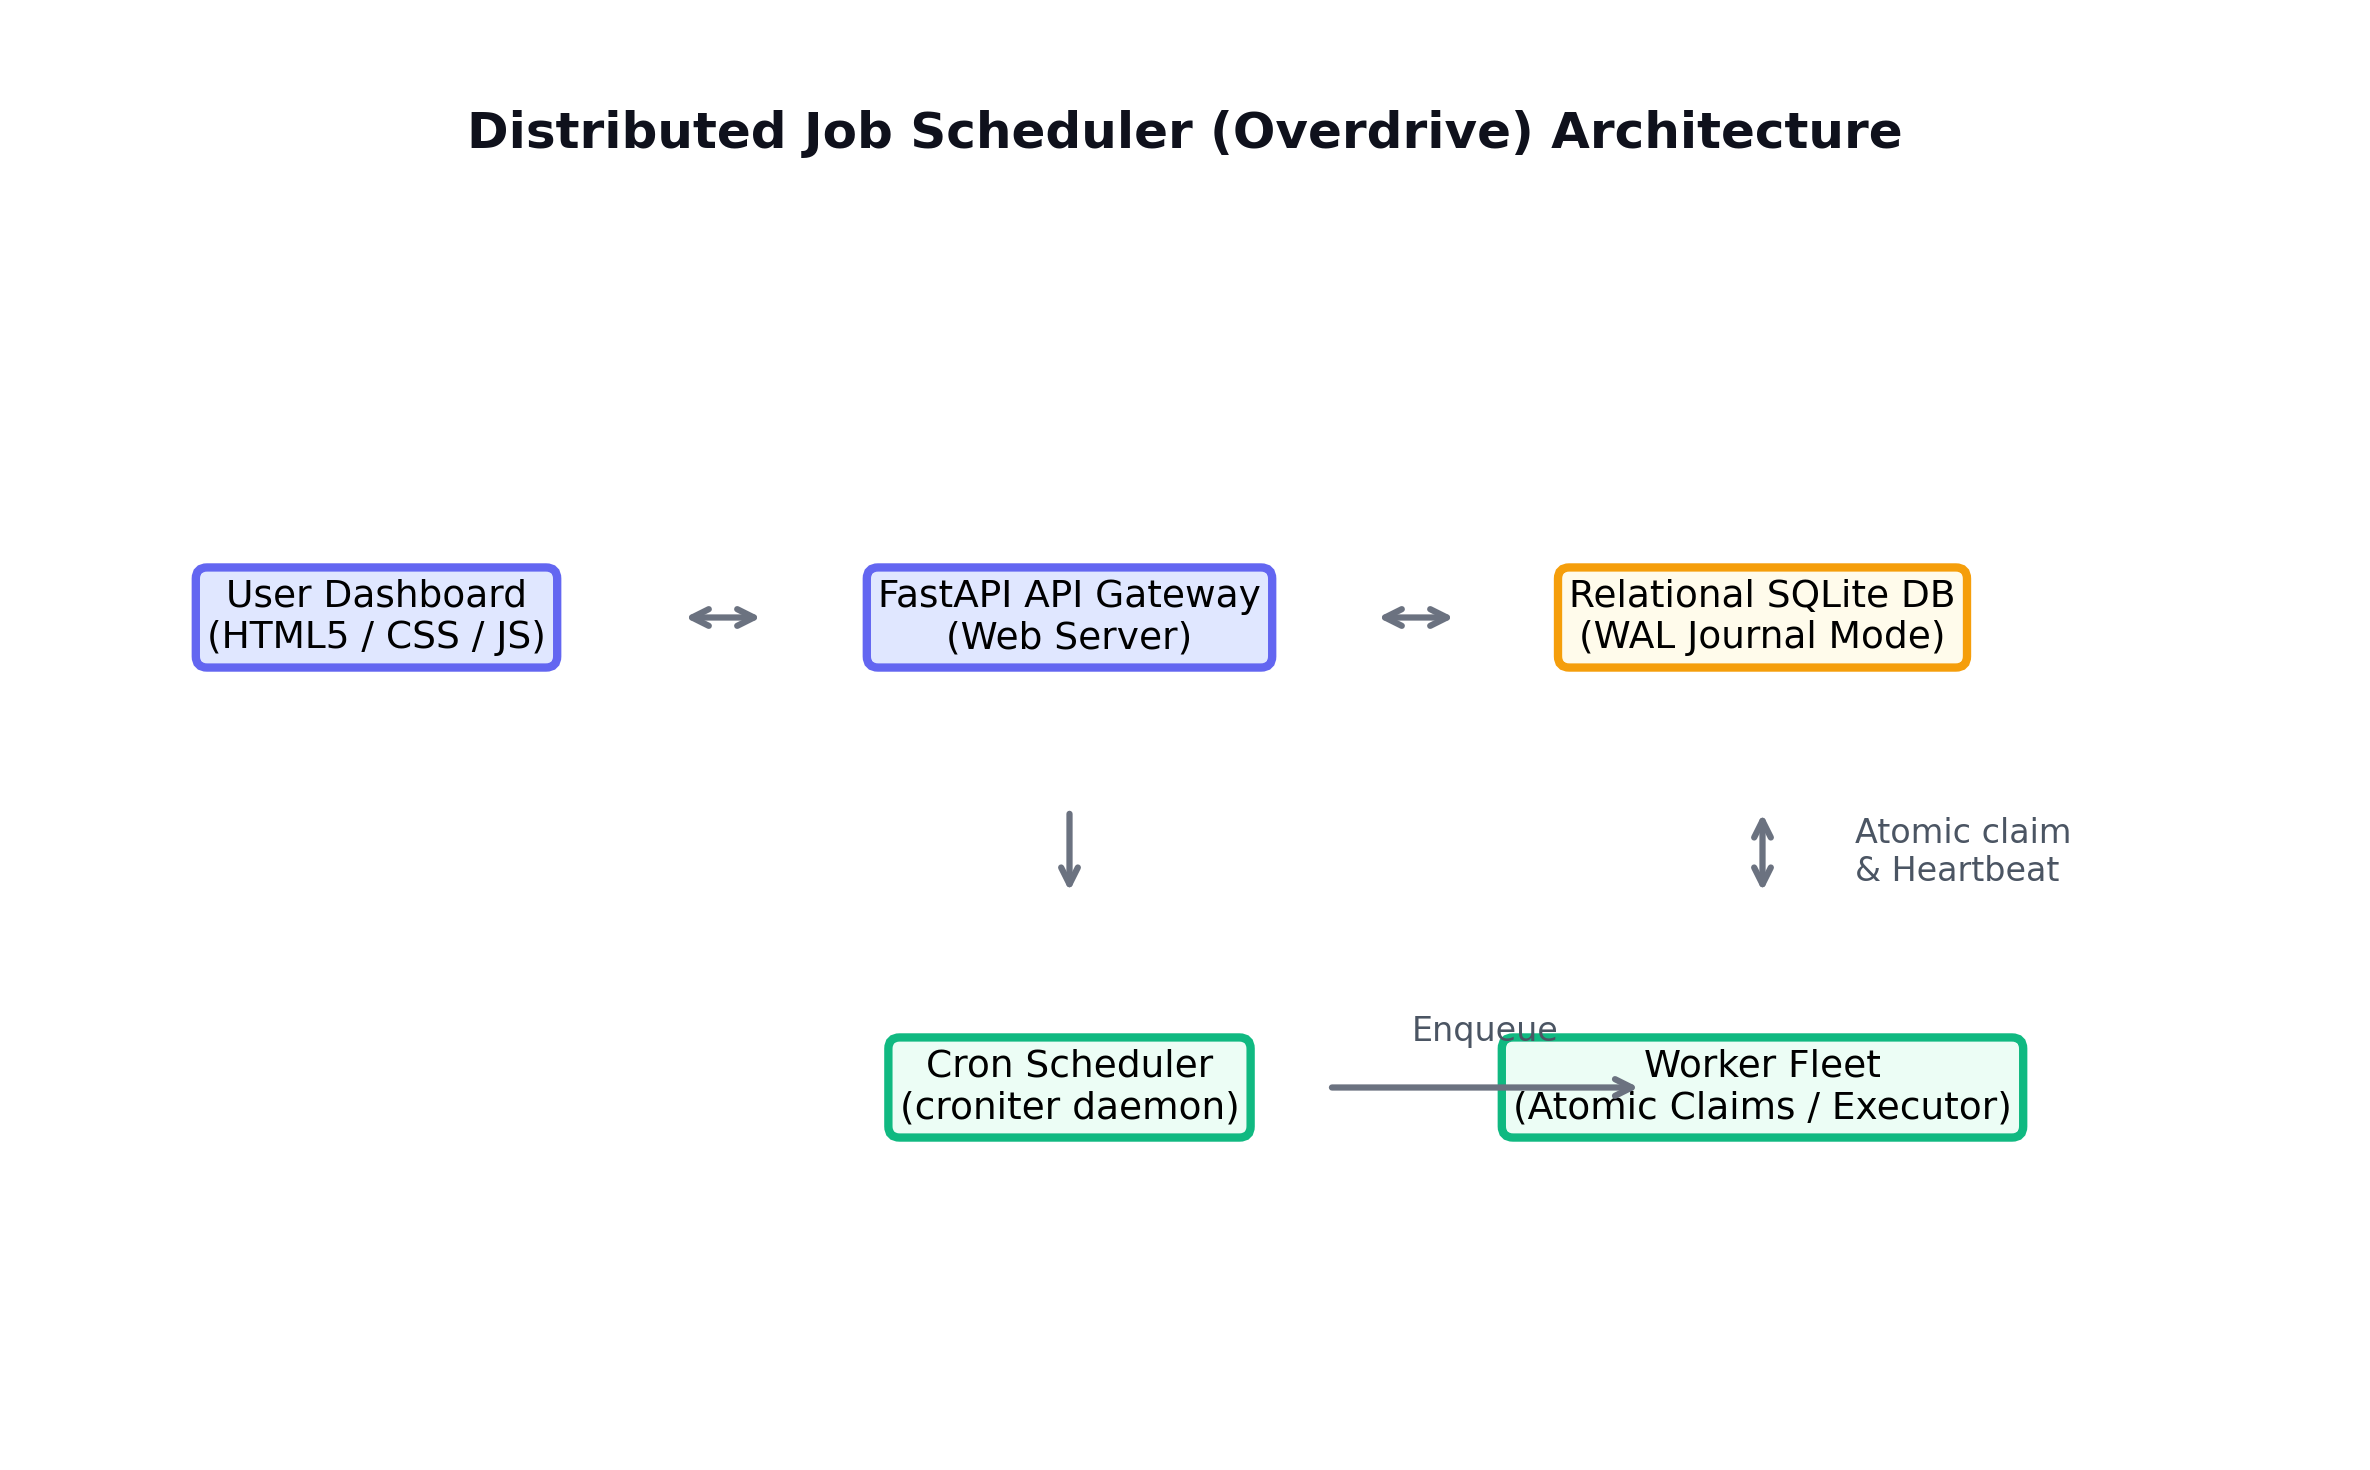
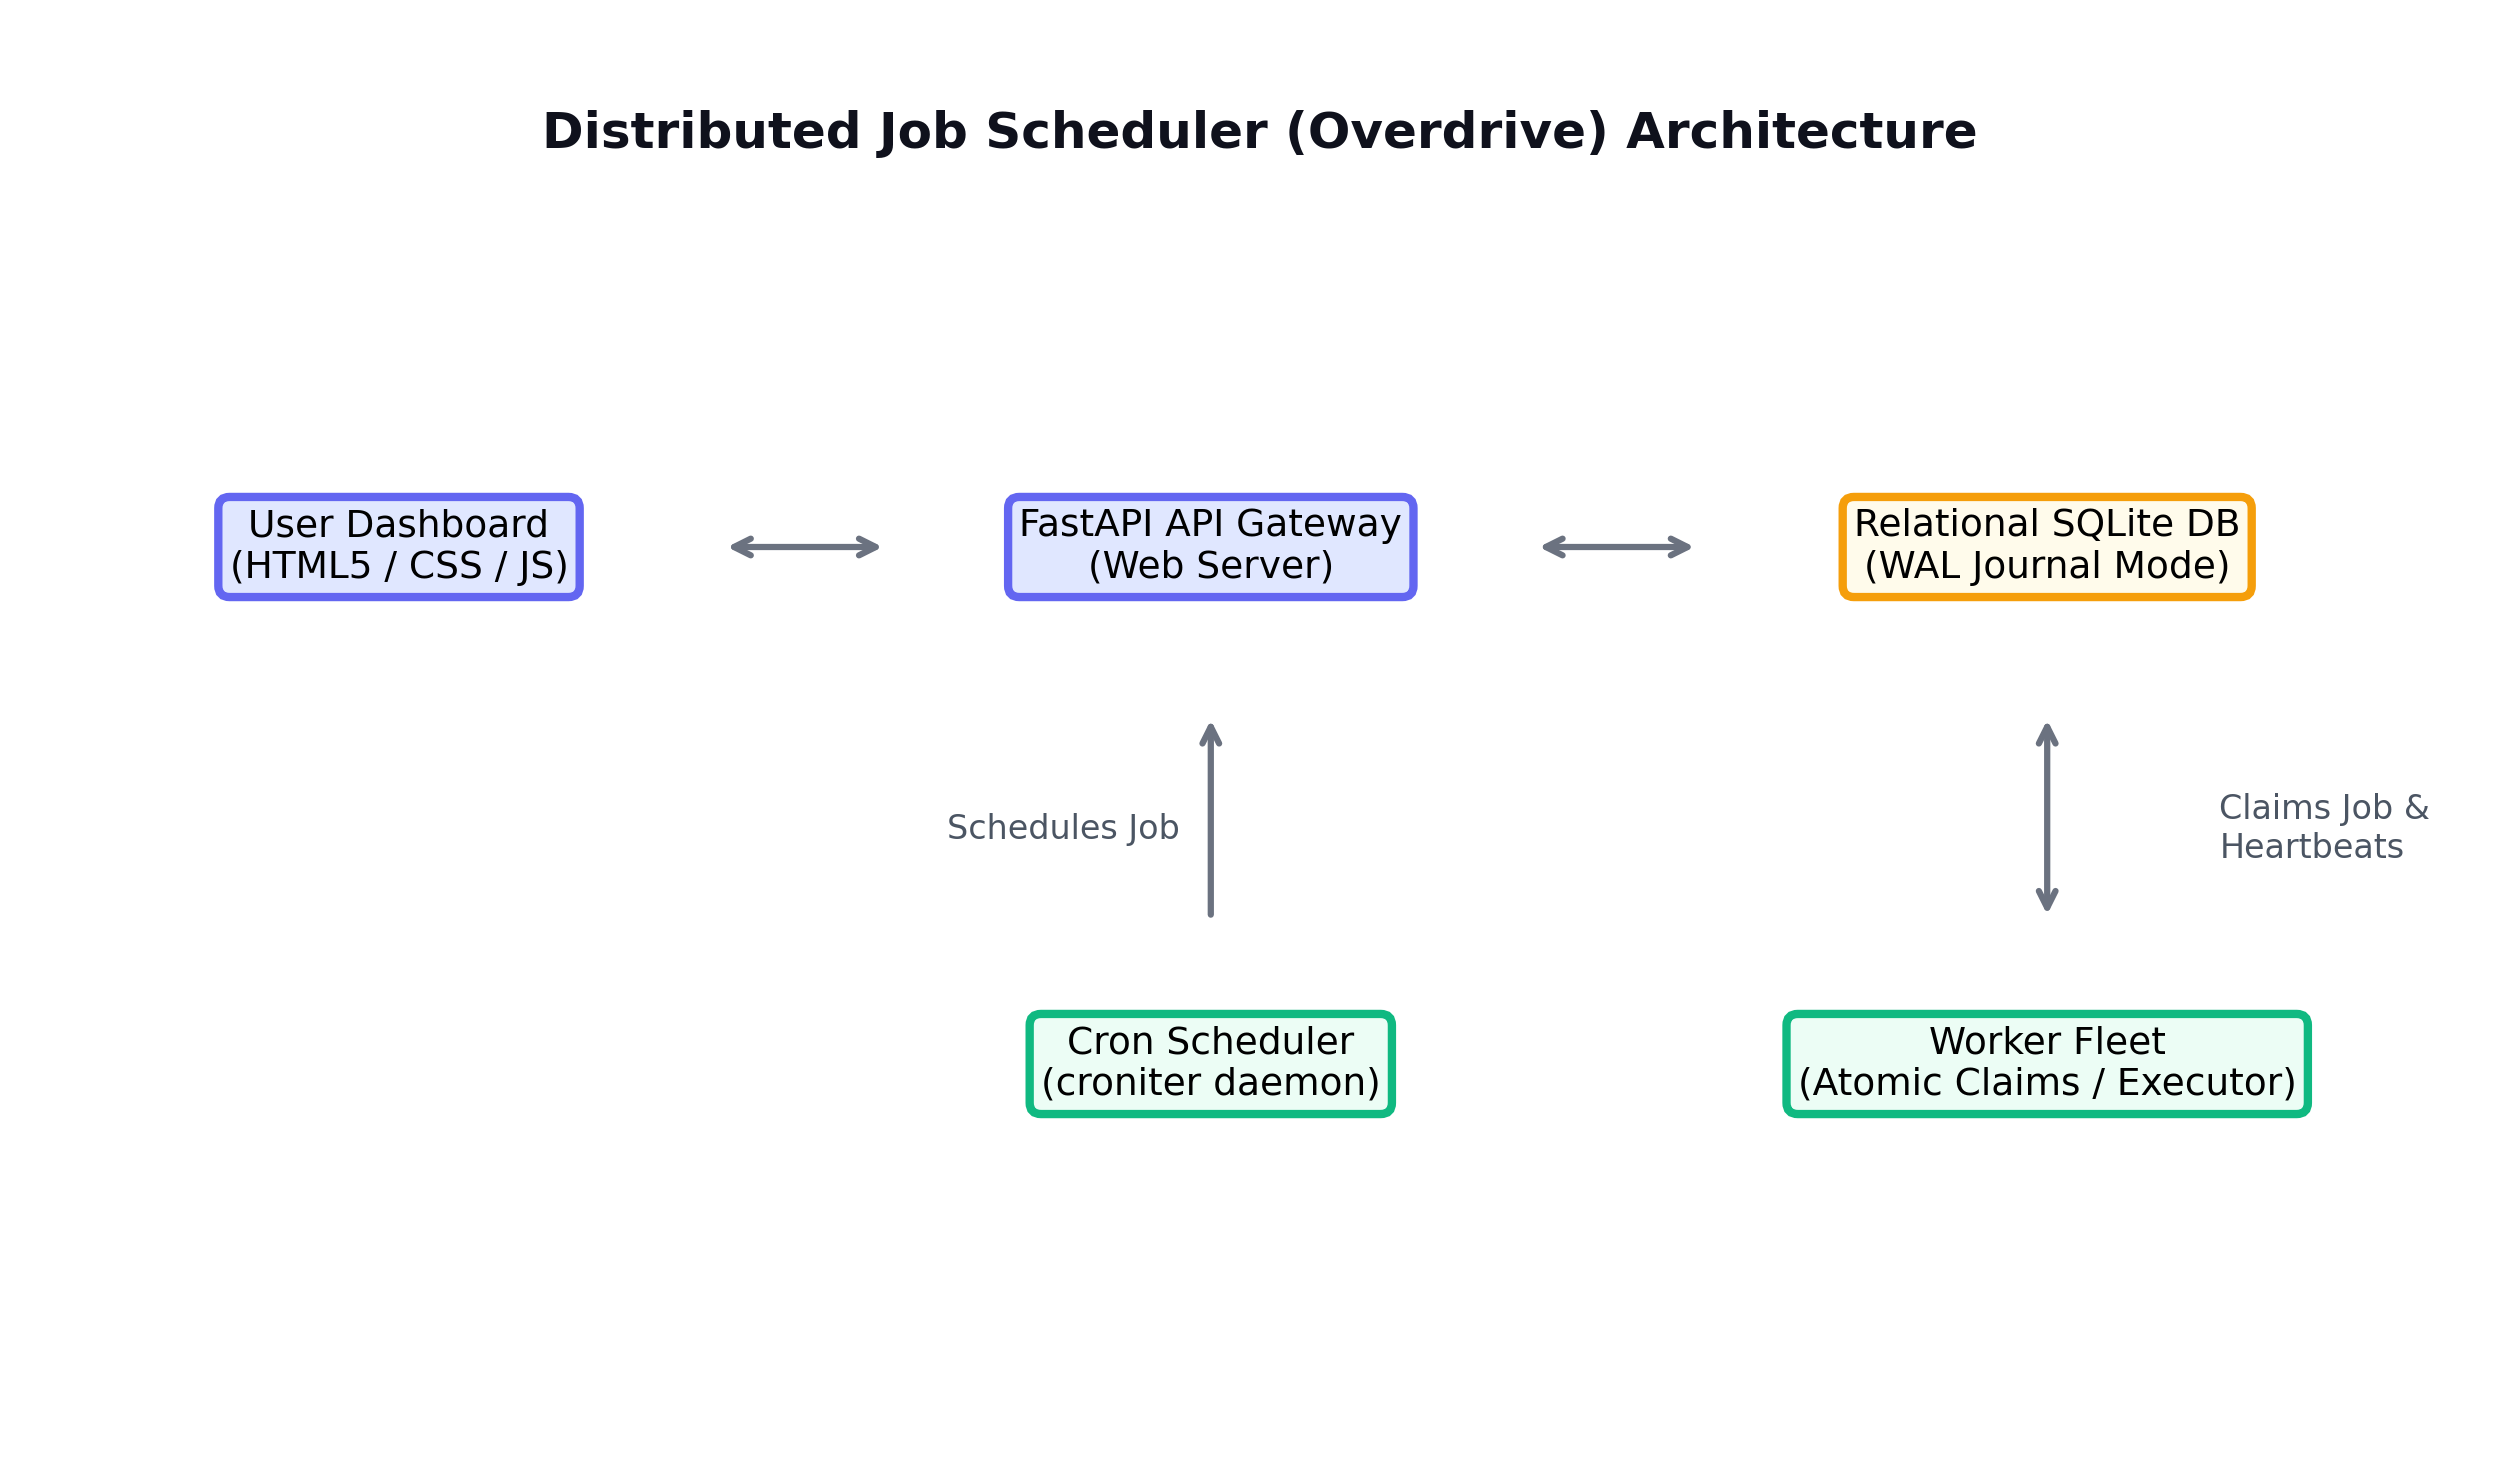
Fix architecture diagram arrow overlap and update PDF report

diff --git a/draw_diagram.py b/draw_diagram.py
@@ -1,8 +1,7 @@
 import matplotlib.pyplot as plt
-import matplotlib.patches as patches
 
 def draw_diagram():
-    fig, ax = plt.subplots(figsize=(8, 5))
+    fig, ax = plt.subplots(figsize=(8.5, 5))
     ax.set_xlim(0, 10)
     ax.set_ylim(0, 6)
     ax.axis('off')
@@ -17,30 +16,27 @@ def draw_diagram():
     box_orange = dict(boxstyle="round,pad=0.3", facecolor="#fffbeb", edgecolor="#f59e0b", lw=2)
 
     # Nodes
-    ax.text(1.5, 3.5, "User Dashboard\n(HTML5 / CSS / JS)", ha='center', va='center', bbox=box_blue, fontsize=9)
-    ax.text(4.5, 3.5, "FastAPI API Gateway\n(Web Server)", ha='center', va='center', bbox=box_blue, fontsize=9)
-    ax.text(7.5, 3.5, "Relational SQLite DB\n(WAL Journal Mode)", ha='center', va='center', bbox=box_orange, fontsize=9)
+    ax.text(1.5, 3.8, "User Dashboard\n(HTML5 / CSS / JS)", ha='center', va='center', bbox=box_blue, fontsize=9)
+    ax.text(4.8, 3.8, "FastAPI API Gateway\n(Web Server)", ha='center', va='center', bbox=box_blue, fontsize=9)
+    ax.text(8.2, 3.8, "Relational SQLite DB\n(WAL Journal Mode)", ha='center', va='center', bbox=box_orange, fontsize=9)
     
-    ax.text(4.5, 1.5, "Cron Scheduler\n(croniter daemon)", ha='center', va='center', bbox=box_green, fontsize=9)
-    ax.text(7.5, 1.5, "Worker Fleet\n(Atomic Claims / Executor)", ha='center', va='center', bbox=box_green, fontsize=9)
+    ax.text(4.8, 1.6, "Cron Scheduler\n(croniter daemon)", ha='center', va='center', bbox=box_green, fontsize=9)
+    ax.text(8.2, 1.6, "Worker Fleet\n(Atomic Claims / Executor)", ha='center', va='center', bbox=box_green, fontsize=9)
 
     # Arrows
     # Dashboard <-> API Gateway
-    ax.annotate('', xy=(3.2, 3.5), xytext=(2.8, 3.5), arrowprops=dict(arrowstyle="<->", lw=1.5, color="#6b7280"))
+    ax.annotate('', xy=(3.5, 3.8), xytext=(2.8, 3.8), arrowprops=dict(arrowstyle="<->", lw=1.5, color="#6b7280"))
     
     # API Gateway <-> SQLite
-    ax.annotate('', xy=(6.2, 3.5), xytext=(5.8, 3.5), arrowprops=dict(arrowstyle="<->", lw=1.5, color="#6b7280"))
+    ax.annotate('', xy=(6.8, 3.8), xytext=(6.1, 3.8), arrowprops=dict(arrowstyle="<->", lw=1.5, color="#6b7280"))
     
-    # Cron -> SQLite
-    ax.annotate('', xy=(7.0, 1.5), xytext=(5.6, 1.5), arrowprops=dict(arrowstyle="->", lw=1.5, color="#6b7280"))
-    ax.text(6.3, 1.7, "Enqueue", ha='center', fontsize=8, color="#4b5563")
+    # Cron -> API Gateway (Pointing UP)
+    ax.annotate('', xy=(4.8, 3.1), xytext=(4.8, 2.2), arrowprops=dict(arrowstyle="->", lw=1.5, color="#6b7280"))
+    ax.text(4.2, 2.6, "Schedules Job", ha='center', va='center', fontsize=8, color="#4b5563")
 
-    # Worker <-> SQLite
-    ax.annotate('', xy=(7.5, 2.3), xytext=(7.5, 2.7), arrowprops=dict(arrowstyle="<->", lw=1.5, color="#6b7280"))
-    ax.text(7.9, 2.5, "Atomic claim\n& Heartbeat", va='center', fontsize=8, color="#4b5563")
-
-    # Cron -> API Gateway / DB relationship arrow
-    ax.annotate('', xy=(4.5, 2.7), xytext=(4.5, 2.3), arrowprops=dict(arrowstyle="<-", lw=1.5, color="#6b7280"))
+    # Worker <-> SQLite (Pointing UP)
+    ax.annotate('', xy=(8.2, 3.1), xytext=(8.2, 2.2), arrowprops=dict(arrowstyle="<->", lw=1.5, color="#6b7280"))
+    ax.text(8.9, 2.6, "Claims Job &\nHeartbeats", ha='left', va='center', fontsize=8, color="#4b5563")
 
     # Save
     plt.tight_layout()